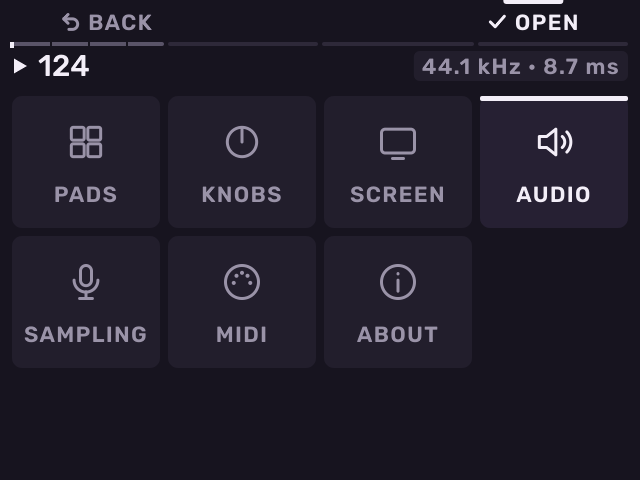
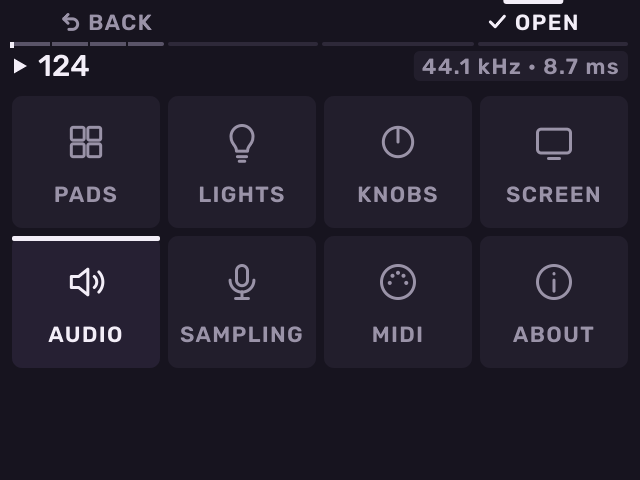
feat(melodee): Settings > LIGHTS holds Pad lights, Pad fade (100 ms by default, faster than before) and Tap Tempo light on or off

diff --git a/src/melodee/shell/settings.h b/src/melodee/shell/settings.h
@@ -35,7 +35,7 @@ inline const char* takeover_name(Takeover t) {
 struct Settings {
     enum Row : uint8_t { Palette, PadResponse, PadPressure, PadLights, KnobTakeover, KnobFxTakeover, FaderTakeover, DoubleSeq, CaptureBars, CaptureQuantize,
                          Screen, PlaceBarRow, SampleRate,
-                         AudioBuffer, RecallGrabRow, RecallGap, RecallTrimEnd, TakeAutoEnd, AutoEndAfter, SilenceBelow, Mirror, MirrorSize, MirrorRate, Rows };
+                         AudioBuffer, RecallGrabRow, RecallGap, RecallTrimEnd, TakeAutoEnd, AutoEndAfter, SilenceBelow, Mirror, MirrorSize, MirrorRate, PadFade, TapLight, Rows };
     uint8_t pad_response = 1; // 0 soft, 1 medium, 2 hard, 3 full level (127, Shift + Pad 1)
     uint8_t response_before = 1; // what Shift + Pad 1 goes back to
     bool count_in = false;    // a bar before Seq Record records (phase 2)
@@ -57,6 +57,11 @@ struct Settings {
     }
     bool pressure = true;     // off: the pads send no pressure (synths, Pad FX depth)
     uint8_t pad_lights = 0;   // 0 track colours, 1 white, 2 off
+    // How fast a pad's light fades when its sound stops or it is let go (shell/pad_lights.cpp): ms, one of fades.
+    static constexpr std::array<uint16_t, 4> fades {{60, 100, 150, 250}};
+    uint8_t pad_fade = 1;
+    uint32_t fade_ms() const { return fades[pad_fade % fades.size()]; }
+    bool tap_light = true;    // Tap Tempo flashes on the beat while playing
     // The MPC's defaults: Scaled for the knobs and Knob FX, Pickup for the fader. Before parity
     // phase 8 one row, "Knob pickup" (key pickup): off reads as Instant for all three.
     Takeover knob_takeover = Takeover::Scaled, knob_fx_takeover = Takeover::Scaled, fader_takeover = Takeover::Pickup;
@@ -97,7 +102,8 @@ struct Settings {
     static const char* row_name(unsigned row) {
         static const char* names[] {"Palette", "Pad response", "Pad pressure", "Pad lights", "Knob takeover", "Knob FX takeover",
                                     "Fader takeover", "Double Seq", "Capture bars", "Capture quantize", "Brightness", "Place bar", "Sample rate", "Audio buffer", "Recall grab", "Recall gap",
-                                    "Recall trim end", "Take auto end", "Auto end after", "Silence below", "Screen mirror", "Resolution", "Frame rate"};
+                                    "Recall trim end", "Take auto end", "Auto end after", "Silence below", "Screen mirror", "Resolution", "Frame rate",
+                                    "Pad fade", "Tap Tempo light"};
         return names[row % Rows];
     }
     std::string value_text(unsigned row) const {
@@ -131,6 +137,8 @@ struct Settings {
         case Mirror: return mirror ? "On" : "Off";
         case MirrorSize: { auto m = mirror_mode(); return std::to_string(m.width) + " x " + std::to_string(m.height); }
         case MirrorRate: return std::to_string(mirror_mode().fps) + " fps";
+        case PadFade: return std::to_string(fade_ms()) + " ms";
+        case TapLight: return tap_light ? "On" : "Off";
         default: return std::to_string(screen) + " %";
         }
     }
@@ -159,6 +167,8 @@ struct Settings {
         case Mirror: mirror = !mirror; break;
         case MirrorSize: mirror_size = uint8_t(step_in(mirror_size % ScreenMirror::size_count, ScreenMirror::size_count, way)); break;
         case MirrorRate: mirror_fps = way < 0 ? 30 : 60; break;
+        case PadFade: pad_fade = uint8_t(step_in(pad_fade % fades.size(), unsigned(fades.size()), way)); break;
+        case TapLight: tap_light = !tap_light; break;
         default: break;
         }
     }
@@ -193,7 +203,7 @@ struct Settings {
     std::string text() const {
         std::ostringstream out;
         // pickup= stays for the builds before parity phase 8, which know only that.
-        out << "pad_response=" << int(pad_response) << "\npad_lights=" << int(pad_lights)
+        out << "pad_response=" << int(pad_response) << "\npad_lights=" << int(pad_lights) << "\npad_fade=" << int(pad_fade) << "\ntap_light=" << int(tap_light)
             << "\npickup=" << int(knob_takeover != Takeover::Instant) << "\nknob_takeover=" << int(knob_takeover)
             << "\nknob_fx_takeover=" << int(knob_fx_takeover) << "\nfader_takeover=" << int(fader_takeover)
             << "\nscreen=" << int(screen) << "\nplace_bar=" << int(place_bottom) << "\ncount_in=" << int(count_in) << "\nrec_quantize=" << int(rec_quantize) << "\nrec_grid=" << int(rec_grid)
@@ -232,6 +242,8 @@ struct Settings {
             int value = std::atoi(line.c_str() + eq + 1);
             if (key == "pad_response") pad_response = uint8_t(std::clamp(value, 0, 3));
             else if (key == "pad_lights") pad_lights = uint8_t(std::clamp(value, 0, 2));
+            else if (key == "pad_fade") pad_fade = uint8_t(std::clamp(value, 0, int(fades.size()) - 1));
+            else if (key == "tap_light") tap_light = value != 0;
             else if (key == "pickup") pickup = value != 0;
             else if (key == "knob_takeover") knob_takeover = takeover(value);
             else if (key == "knob_fx_takeover") knob_fx_takeover = takeover(value);

diff --git a/src/melodee/tools.cpp b/src/melodee/tools.cpp
@@ -1701,26 +1701,27 @@ const Preview previews[] {
          }
          s.ui.turning = 1; s.ui.turned_at = s.now;
      }},
-    {"settings", [](Shell&, Snapshot& s) { s.ui.page = PageId::SettingsPage; s.playing = true; s.ui.settings_door = 3; }}, // the doors, AUDIO in hand
+    {"settings", [](Shell&, Snapshot& s) { s.ui.page = PageId::SettingsPage; s.playing = true; s.ui.settings_door = 4; }}, // the doors, AUDIO in hand
     {"settingspads", [](Shell&, Snapshot& s) { s.ui.page = PageId::SettingsPage; s.ui.settings_in = true; s.ui.settings_door = 0; s.ui.settings_cursor = Settings::PadResponse; }},
-    {"settingsscreen", [](Shell&, Snapshot& s) { s.ui.page = PageId::SettingsPage; s.ui.settings_in = true; s.ui.settings_door = 2; s.ui.settings_cursor = Settings::Palette; }},
+    {"settingslights", [](Shell&, Snapshot& s) { s.ui.page = PageId::SettingsPage; s.ui.settings_in = true; s.ui.settings_door = 1; s.ui.settings_cursor = Settings::PadFade; }},
+    {"settingsscreen", [](Shell&, Snapshot& s) { s.ui.page = PageId::SettingsPage; s.ui.settings_in = true; s.ui.settings_door = 3; s.ui.settings_cursor = Settings::Palette; }},
     {"settingsaudio", [](Shell&, Snapshot& s) { // AUDIO's rows, 48 kHz with a dropout
-        s.ui.page = PageId::SettingsPage; s.ui.settings_in = true; s.ui.settings_door = 3; s.ui.settings_cursor = Settings::AudioBuffer; s.ui.settings_editing = true;
+        s.ui.page = PageId::SettingsPage; s.ui.settings_in = true; s.ui.settings_door = 4; s.ui.settings_cursor = Settings::AudioBuffer; s.ui.settings_editing = true;
         s.ui.settings.audio_rate = 48000; s.ui.settings.audio_periods = 4;
         s.audio_rate = 48000; s.audio_periods = 4; s.audio_xruns = 1;
         s.machine.render_load = 0.47f; // the blocks' share of their time, beside the dropout (roadmap P2)
         s.machine.pdc_frames = 152;    // a 44.1 kHz plug-in effect's converter held back (roadmap P4)
     }},
     {"settingssampling", [](Shell&, Snapshot& s) { // the sampling rows: how Audio Recall cuts, when a take ends on its own
-        s.ui.page = PageId::SettingsPage; s.ui.settings_in = true; s.ui.settings_door = 4; s.ui.settings_cursor = Settings::RecallGrabRow; s.ui.settings_editing = true;
+        s.ui.page = PageId::SettingsPage; s.ui.settings_in = true; s.ui.settings_door = 5; s.ui.settings_cursor = Settings::RecallGrabRow; s.ui.settings_editing = true;
     }},
     {"settingsmirror", [](Shell&, Snapshot& s) { // SCREEN's rows with Screen Mirror on at 1280 x 960, 60 fps, a computer showing it
-        s.ui.page = PageId::SettingsPage; s.ui.settings_in = true; s.ui.settings_door = 2; s.ui.settings_cursor = Settings::MirrorSize;
+        s.ui.page = PageId::SettingsPage; s.ui.settings_in = true; s.ui.settings_door = 3; s.ui.settings_cursor = Settings::MirrorSize;
         s.ui.settings.mirror = true; s.ui.settings.mirror_size = 3; s.ui.settings.mirror_fps = 60;
         s.mirror_state = uint8_t(MirrorState::Streaming); s.mirror_width = 1280; s.mirror_height = 960;
     }},
     {"settingsmirrorheld", [](Shell&, Snapshot& s) { // turned off while a computer shows it: it waits for the computer to close the camera
-        s.ui.page = PageId::SettingsPage; s.ui.settings_in = true; s.ui.settings_door = 2; s.ui.settings_cursor = Settings::Mirror;
+        s.ui.page = PageId::SettingsPage; s.ui.settings_in = true; s.ui.settings_door = 3; s.ui.settings_cursor = Settings::Mirror;
         s.ui.settings.mirror = false; s.ui.settings.mirror_size = 3;
         s.mirror_state = uint8_t(MirrorState::Streaming); s.mirror_width = 1280; s.mirror_height = 960; s.mirror_held = true;
     }},
@@ -1847,7 +1848,7 @@ const Preview previews[] {
          s.ui.fader = {20, false, 1}; s.ui.fader_moved_at = s.now;
      }},
     {"fadersettings", [](Shell&, Snapshot& s) { // Settings: the three takeover rows, the fader's open
-         s.ui.page = PageId::SettingsPage; s.ui.settings_in = true; s.ui.settings_door = 1; s.ui.settings_cursor = Settings::FaderTakeover; s.ui.settings_editing = true;
+         s.ui.page = PageId::SettingsPage; s.ui.settings_in = true; s.ui.settings_door = 2; s.ui.settings_cursor = Settings::FaderTakeover; s.ui.settings_editing = true;
      }},
     // Parity phase 9: MIDI and sync.
     {"midiconfig", [](Shell&, Snapshot& s) { // Shift + Pad 8: Sync In open on MIDI Clock, MIDI just came in

diff --git a/src/melodee/shell/pad_lights.cpp b/src/melodee/shell/pad_lights.cpp
@@ -59,7 +59,7 @@ std::array<bool, 192> keys_in(const Pattern& p) {
 
 // What sounds now, pad by pad: a voice's envelope (a kit), or the pattern at
 // the playhead (plug-in and MIDI tracks have no voice taps); and a pad let
-// go, fading (hand_ms).
+// go, fading (Settings > LIGHTS > Pad fade).
 struct Heard {
     std::array<float, 16> level {};
     std::array<float, 16> levels {}; // under 16 Levels: what each level's pad sounds (levels_sound())
@@ -103,11 +103,12 @@ Heard heard_now(const PadScene& s) {
             }
         }
     }
+    const float fade = float(std::max<uint32_t>(s.ui.settings.fade_ms(), 1)); // Settings > LIGHTS > Pad fade
     if (levels_on(t)) for (unsigned pad = 0; pad < 16; ++pad) out.levels[pad] = levels_sound(s, pad);
     if (s.glow) { // a sound falls no faster than a pad let go fades
         int owner = int(at) * 256 + int(t.bank) * 2 + int(levels_on(t));
         auto& g = *s.glow;
-        float keep = g.owner == owner && s.now >= g.at ? std::exp(-float(s.now - g.at) / hand_ms) : 0.0f;
+        float keep = g.owner == owner && s.now >= g.at ? std::exp(-float(s.now - g.at) / fade) : 0.0f;
         auto fade = [&](std::array<float, 16>& now, std::array<float, 16>& kept) {
             for (unsigned pad = 0; pad < 16; ++pad) {
                 float faded = kept[pad] * keep;
@@ -124,7 +125,7 @@ Heard heard_now(const PadScene& s) {
             uint32_t up = (*s.let_go)[pad];
             if (!up || held(s, pad) || s.now + 1 < up) continue;
             uint32_t since = s.now + 1 - up;
-            if (since < 4 * hand_ms) out.hand[pad] = std::exp(-float(since) / hand_ms);
+            if (since < 4 * fade) out.hand[pad] = std::exp(-float(since) / fade);
         }
     return out;
 }

diff --git a/src/melodee/pages/settings_page.cpp b/src/melodee/pages/settings_page.cpp
@@ -41,9 +41,10 @@ using namespace ui;
 
 struct Door { Icon icon; const char* name; std::array<int8_t, 6> rows; };
 constexpr int8_t none = -1;
-const std::array<Door, 7> doors {{
-    {Icon::Pads, "PADS", {Settings::PadResponse, Settings::PadPressure, Settings::PadLights, Settings::DoubleSeq, Settings::CaptureBars,
-                          Settings::CaptureQuantize}},
+const std::array<Door, 8> doors {{
+    {Icon::Pads, "PADS", {Settings::PadResponse, Settings::PadPressure, Settings::DoubleSeq, Settings::CaptureBars, Settings::CaptureQuantize,
+                          none}},
+    {Icon::Bulb, "LIGHTS", {Settings::PadLights, Settings::PadFade, Settings::TapLight, none, none, none}},
     {Icon::Knob, "KNOBS", {Settings::KnobTakeover, Settings::KnobFxTakeover, Settings::FaderTakeover, none, none, none}},
     {Icon::Screen, "SCREEN", {Settings::Palette, Settings::Screen, Settings::PlaceBarRow, Settings::Mirror, Settings::MirrorSize,
                               Settings::MirrorRate}},
@@ -53,7 +54,7 @@ const std::array<Door, 7> doors {{
     {Icon::Din, "MIDI", {none, none, none, none, none, none}},  // MIDI Config's own page
     {Icon::Info, "ABOUT", {none, none, none, none, none, none}}, // the About page
 }};
-constexpr unsigned screen_door = 2, audio_door = 3, midi_door = 5, about_door = 6;
+constexpr unsigned screen_door = 3, audio_door = 4, midi_door = 6, about_door = 7;
 void trouble(Paint& p, float right, float cy, unsigned count);
 
 // Screen Mirror, under SCREEN's rows while it is on: how it goes (the runtime's state). Amber when it waits on the card or failed, and

diff --git a/tests/melodee.cpp b/tests/melodee.cpp
@@ -5331,6 +5331,21 @@ void device_rates() {
         b.mirror = true; b.mirror_fps = 60; b.reset_factory();
         CHECK(!b.mirror && b.mirror_size == 3 && b.mirror_fps == 30);
     }
+    // LIGHTS: Pad fade 100 ms and Tap Tempo light on until changed; kept and read back; the fade stops at the list's ends.
+    {
+        Settings a;
+        CHECK(a.fade_ms() == 100 && a.value_text(Settings::PadFade) == "100 ms" && a.tap_light && a.value_text(Settings::TapLight) == "On");
+        a.step(Settings::PadFade, -1); a.step(Settings::PadFade, -1); a.step(Settings::TapLight, 1);
+        CHECK(a.fade_ms() == 60 && !a.tap_light && a.value_text(Settings::TapLight) == "Off");
+        for (int n = 0; n < 6; ++n) a.step(Settings::PadFade, 1);
+        CHECK(a.value_text(Settings::PadFade) == "250 ms");
+        Settings b;
+        b.read(a.text());
+        CHECK(b.fade_ms() == 250 && !b.tap_light);
+        b.read("pad_fade=9\n");
+        CHECK(b.fade_ms() == 250);
+        CHECK(std::string(Settings::row_name(Settings::PadFade)) == "Pad fade" && std::string(Settings::row_name(Settings::TapLight)) == "Tap Tempo light");
+    }
 }
 
 // Sampling from an engine: the Track input source (before or after the

diff --git a/src/melodee/ui/glyphs.cpp b/src/melodee/ui/glyphs.cpp
@@ -146,6 +146,7 @@ Shape make(Icon icon) {
     case Icon::Sliders: s = "M6 4 V20 M12 4 V20 M18 4 V20"; f = box(3.5f, 7, 5, 4, 1) + box(9.5f, 13, 5, 4, 1) + box(15.5f, 6, 5, 4, 1); break;
     case Icon::Layers: s = "M12 4 L21 9 L12 14 L3 9 Z M3 13.5 L12 18.5 L21 13.5"; break;
     case Icon::Screen: s = box(3, 5, 18, 13, 2) + "M9 21 H15"; break;
+    case Icon::Bulb: s = "M9 17 C9 14 6 13 6 9 A6 6 0 0 1 18 9 C18 13 15 14 15 17 Z M9.5 20 H14.5 M10.5 22.5 H13.5"; break;
     case Icon::File: s = "M6 2 H14 L19 7 V22 H6 Z M14 2 V7 H19"; break;
     case Icon::Wheel: s = circle(12, 12, 8.5f); f = circle(12, 6.6f, 1.6f); break;
     case Icon::ArrowLeft: s = "M20 12 H5 M11 6 L5 12 L11 18"; break;

diff --git a/src/melodee/shell/lights.cpp b/src/melodee/shell/lights.cpp
@@ -542,7 +542,7 @@ void Shell::lights(SurfaceLights& lights, uint32_t now) {
     else on(B::SeqRecord, ui.recording);
     // Tap Tempo flashes on the beat while playing.
     unsigned beat = project.beat_ticks();
-    on(B::TapTempo, playing && ticks % beat < beat / 3);
+    on(B::TapTempo, ui.settings.tap_light && playing && ticks % beat < beat / 3); // Settings > LIGHTS > Tap Tempo light
     on(B::Mute, ui.mute_mode());           // bright while mute mode is on, latched or held
     on(B::PadBank, tracks_on_pads(ui));    // held, or a track copy under way
     on(B::Erase, ui.erase || ui.copying != UiState::Copying::Off); // lit while copying

diff --git a/src/melodee/shell/pad_lights.h b/src/melodee/shell/pad_lights.h
@@ -19,7 +19,7 @@ class EngineHost;
 struct TrackTaps;
 
 // A pad's sound as last lit, so a sound that stops (a one-shot's end, a choke) fades as a pad let go does
-// (pad_light::hand_ms) instead of going dark at once. Kept by the shell across frames; for one track and bank.
+// (Settings > LIGHTS > Pad fade) instead of going dark at once. Kept by the shell across frames; for one track and bank.
 struct PadGlow {
     std::array<float, 16> level {};
     std::array<float, 16> levels {}; // 16 Levels' pads, the same

diff --git a/src/melodee/shell/pad_light.h b/src/melodee/shell/pad_light.h
@@ -23,7 +23,6 @@ namespace melodee::pad_light {
 constexpr float off = 0, faint = 0.25f, dim = 0.4f, mid = 0.65f, full = 1.0f;
 constexpr uint32_t blink_ms = 150; // a change waiting for the bar: a pattern, a track's next pattern
 constexpr uint32_t flash_ms = 250; // waiting on you: a take's pad, the pad a question is about
-constexpr uint32_t hand_ms = 250;  // a pad let go: how fast its flare fades
 
 enum class Hue : uint8_t { None, Track, Loop, White, Red, Orange };
 

diff --git a/src/melodee/ui/glyphs.h b/src/melodee/ui/glyphs.h
@@ -26,6 +26,7 @@ enum class Icon : uint8_t {
     ArrowLeft, SpaceBar,
     Snow, // freeze plan F2c: a frozen track or pattern, a print
     DeepSnow, // freeze plan F2d: a deep-frozen track, the snowflake cut out of a filled tile
+    Bulb, // Settings' LIGHTS
     Count
 };
 

diff --git a/docs/MELODEE.md b/docs/MELODEE.md
@@ -214,7 +214,8 @@ grammar (`shell/pad_light.h`):
 - **Motion** is timing: a blink waits for a boundary (a pattern or a track's
   next pattern for the bar), a flare is a sound fading (a kit's voices, the
   pattern at the playhead for synths and MIDI, a pad let go; a sound that
-  stops, as a one-shot's end, fades as a pad let go does), the
+  stops, as a one-shot's end, fades as a pad let go does, over Settings'
+  Pad fade), the
   Count-In pulses every pad white on its beats, the bar's first brighter.
 
 | Context | The pads |
@@ -1636,10 +1637,13 @@ while following.
   access"); the page is `pages/card_access_page.cpp`, the controls
   `shell/card_access.*`.
 - **Settings** (Shift + Pad 8; Melodee's, the same for every project, as is
-  the metronome): seven doors, four by two (the wheel picks, Push or B3
+  the metronome): eight doors, four by two (the wheel picks, Push or B3
   opens, B1 back), each a short list (Push opens a value, the wheel changes
   it, −/+ at once, B1 back to the doors). **PADS**: pad response (soft,
-  medium, hard, full level), pad pressure on / off, pad lights, Double Seq.
+  medium, hard, full level), pad pressure on / off, Double Seq. **LIGHTS**:
+  Pad lights, Pad fade (60, 100, 150, 250 ms; 100 by default: how fast a
+  pad's flare fades after its sound stops or it is let go), Tap Tempo light
+  (On, Off: its flash on the beat while playing).
   **KNOBS**: Knob / Knob FX / Fader takeover (Pickup, Scaled, Instant;
   Scaled, Scaled, Pickup by default). **SCREEN**: palette, brightness,
   where the place bar sits (Top, Bottom), and Screen Mirror: Screen mirror

diff --git a/docs/guide/settings.md b/docs/guide/settings.md
@@ -14,7 +14,8 @@ runs at, and in amber the audio dropouts since Melodee started.
 
 | Page | Settings |
 | --- | --- |
-| **PADS** | Pad response (soft, medium, hard, full level), pad pressure, pad lights, what Double Seq copies, Recall length and grid |
+| **PADS** | Pad response (soft, medium, hard, full level), pad pressure, what Double Seq copies, Recall length and grid |
+| **LIGHTS** | Pad lights (track colours, white, off), **Pad fade** (how fast a pad's light fades after its sound stops: 60, 100, 150 or 250 ms), **Tap Tempo light** (flashes on the beat while playing, on or off) |
 | **KNOBS** | Knob, Knob FX and fader takeover: Pickup, Scaled or Instant |
 | **SCREEN** | Palette, **Brightness** (20 to 100 %), place bar at the top or bottom, Screen mirror (on or off) and its resolution: the screen as a USB camera for a computer |
 | **AUDIO** | Sample rate (44.1, 48 or 96 kHz) and audio buffer (256 to 1024 frames). A longer buffer gives fewer crackles on a busy project. A shorter one responds sooner. |
